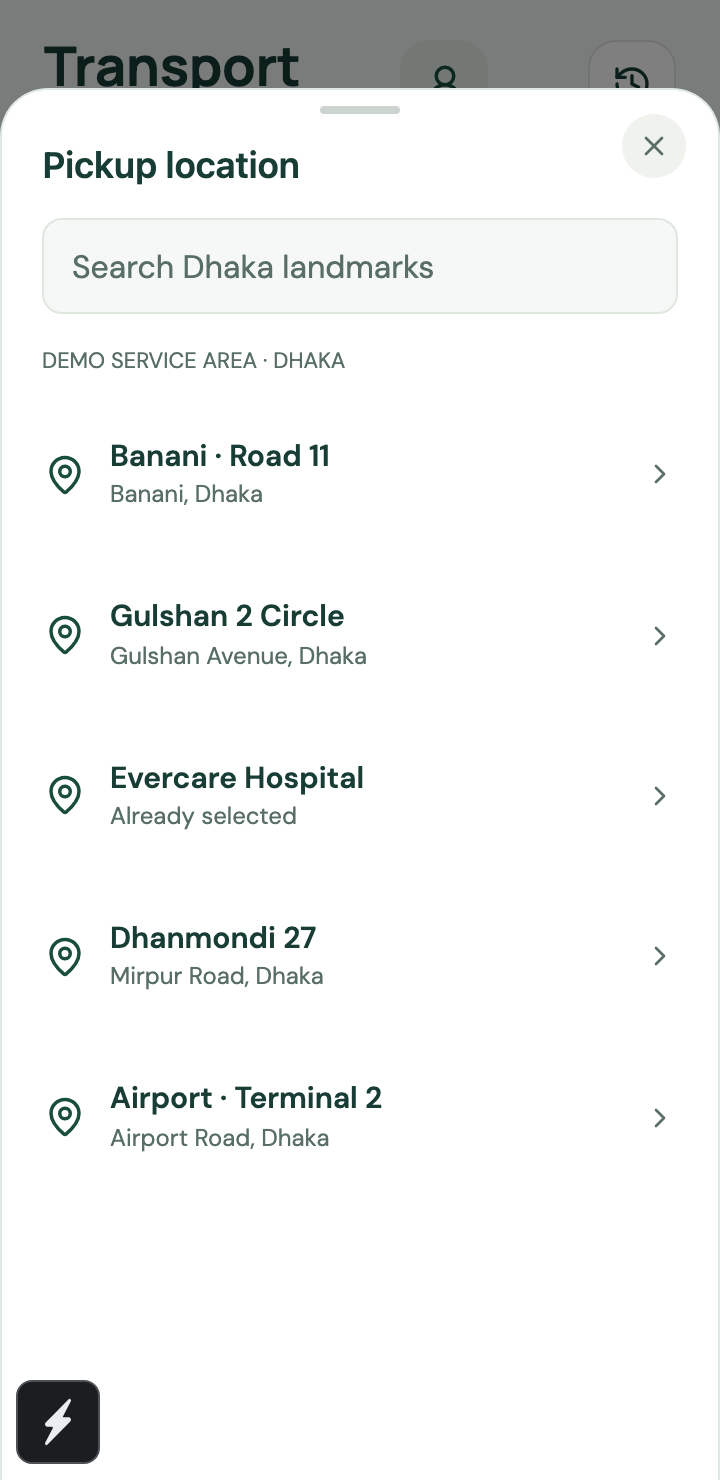
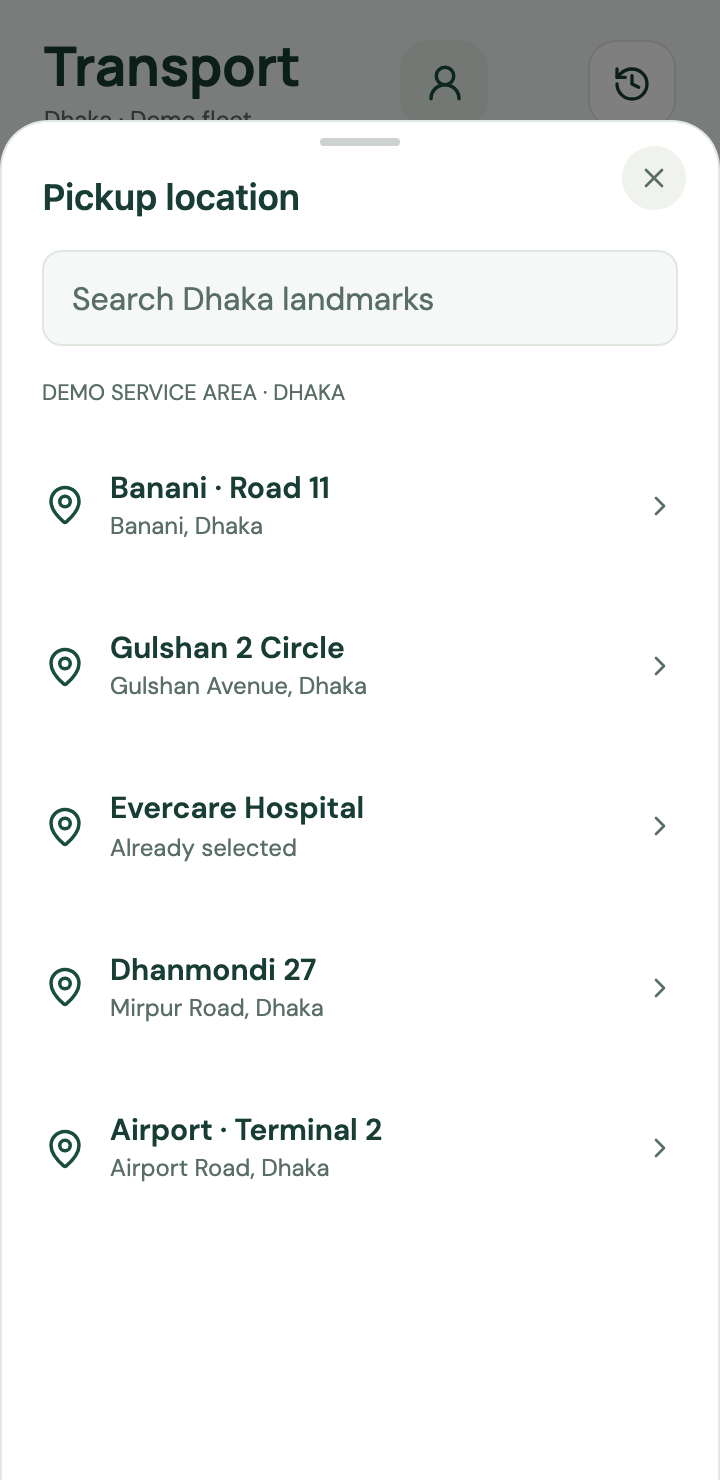
fix: replace stale Pages route entries with current Expo shell

diff --git a/docs/QA.md b/docs/QA.md
@@ -11,7 +11,9 @@ Verified on 5 September 2026. Android ARM64 release version code 4.
 
[1 lines of base64/hex data omitted]
 
-Web deployment: https://d63d36db.carenow-demo.pages.dev
+Web deployment: https://3e11a65d.carenow-demo.pages.dev
+
+Publication follow-up: the main `/transport` URL retained an old static HTML object after SPA migration. The export now emits explicit current HTML entries for static routes. A fresh production deployment replaced the stale transport page; its response matches the 1,570-byte current shell. The account control, four vehicle grid and location picker were rechecked on the main URL.
 
 # CareNow 1.2 verification — 5 September 2026
 
